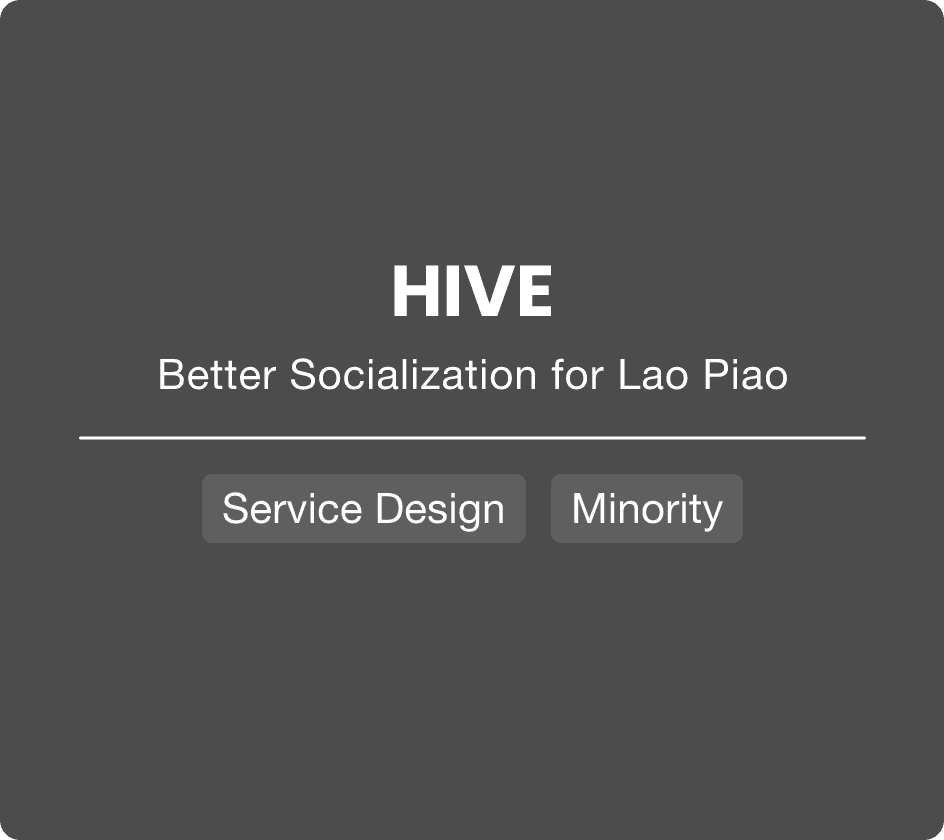
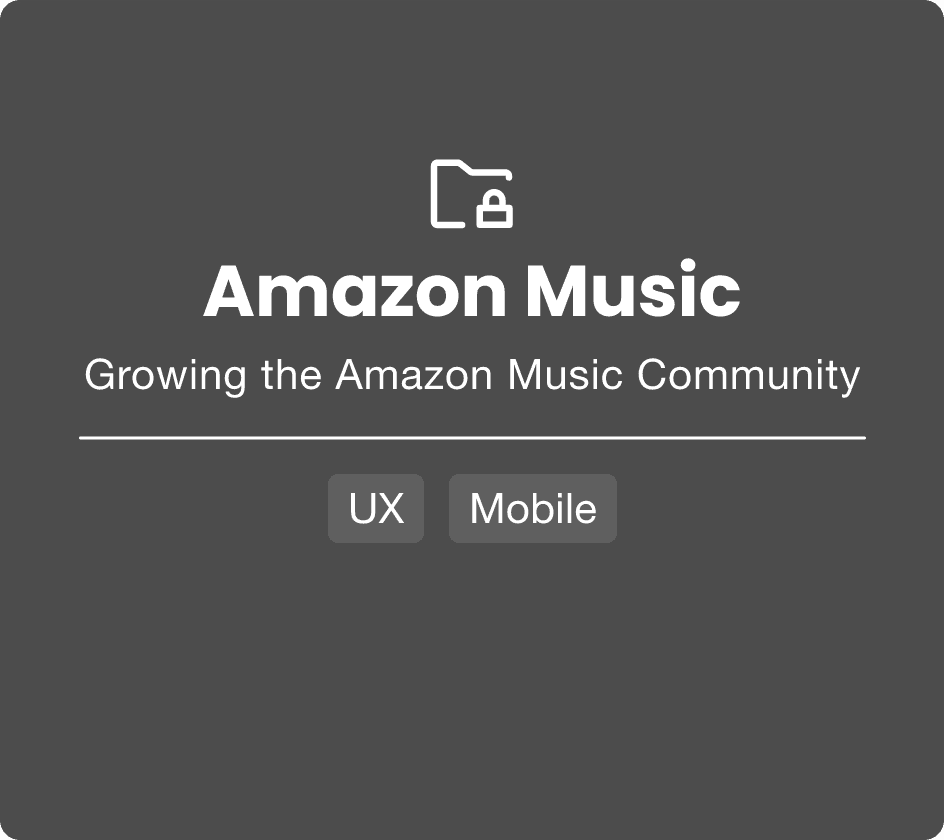
update

Changed region(s): [[0.0922, 0.3095, 0.9216, 0.4643], [0.215, 0.5881, 0.768, 0.65], [0.4301, 0.1857, 0.553, 0.2786]]

diff --git a/index.html b/index.html
@@ -226,37 +226,38 @@
                 style="width:38.4px;height:27.6px;margin:253px 0 0 514px">
         </div>
     </div>
-
     <div class="wow animate__fadeInUp" data-wow-duration="1.2s" data-wow-delay="0s" data-wow-offset="20">
         <div class="work">
             <div class="img-box" style="margin:25px 0 0 199.8px;float: left;">
-                <!-- <a href=""onclick="return false;"> -->
-                <img alt="pic" src="./static/image/cover/ama.png" class="img" style="position: static;">
-                <!-- </a> -->
+                <a href="hive.html">
+                    <img alt="pic" src="./static/image/cover/hive123.png" id="hive_cover" class="img"
+                        style="position: static;">
+                </a>
             </div>
-            <img alt="pic" src="./static/image/cover/ama_logo.png"
-                style="position: absolute;margin: 46px 0 0 -446px;width: 165.2px;">
-            <img alt="pic" src="./static/image/cover/beke_square.png" id="beke_highlight"
+            <!-- <img alt="pic" src="./static/image/cover/iwen_logo.png"
+                style="position: absolute;margin: 65px 0 0 -440px;width: 109.1px;"> -->
+                <img alt="pic" src="./static/image/cover/hive_square.png" id="hive_highlight"
                 style="width:0;height:19.2px;margin:179.8px 0 0 80.8px">
-            <img alt="pic" src="./static/image/cover/beke_1.png"
-                style="width:98.6px;height:27.6px;margin:253px 0 0 80.8px">
-            <img alt="pic" src="./static/image/cover/beke_1.png"
-                style="width:69.2px;height:27.6px;margin:253px 0 0 188px">
-            <img alt="pic" src="./static/image/cover/beke_2.png"
-                style="width:150.8px;height:27.6px;margin:253px 0 0 265px">
-            <!-- <a href=""onclick="return false;"> -->
-            <p class="font1" style="margin:106.6px 0 0 747.2px">Amazon Music</p>
-            <!-- </a> -->
-            <p class="font2" style="margin:206.6px 0 0 751.2px;letter-spacing: 0.5px;">Growing the Amazon Music
-                Community
+            <a href="hive.html">
+                <p class="font1" style="margin:106.6px 0 0 747.2px" id="hive_font">HIVE</p>
+            </a>
+            <p class="font2" style="margin:206.6px 0 0 751.2px;letter-spacing: 0.5px;">Better Socialization for Lao Piao
             </p>
-            <p class="font3" style="margin:301.8px 0 0 752.0px;letter-spacing: 0.4px;">This project is under
-                construction.</p>
-            <p class="font4" style="margin:253.8px 0 0 763.0px;color:#5d5d5d;">UX Design</p>
-            <p class="font4" style="margin:253.8px 0 0 869.6px;color:#5d5d5d;">Mobile</p>
-            <p class="font4" style="margin:253.8px 0 0 945.8px;color:#5d5d5d;">Design Challenge</p>
+            <p class="font3" style="margin:301.8px 0 0 752.0px;letter-spacing: 0.4px;">The project focuses on the
+                elderly drifters in first-tier cities in China, called Lao Piao, helping them to improve their personal
+                awareness and focus on their needs.</p>
+            <p class="font4" style="margin:253.8px 0 0 762.5px;color:#5d5d5d;">UX Design</p>
+            <p class="font4" style="margin:253.8px 0 0 871px;color:#5d5d5d;">Service Design</p>
+            <p class="font4" style="margin:253.8px 0 0 1008.2px;color:#5d5d5d;">Equity for Minority</p>
+            <img alt="pic" src="./static/image/cover/iwen_1.png"
+                style="width:98.0px;height:27.6px;margin:253px 0 0 80.8px">
+            <img alt="pic" src="./static/image/cover/iwen_1.png"
+                style="width:129.6px;height:27.6px;margin:253px 0 0 189px">
+            <img alt="pic" src="./static/image/cover/iwen_2.png"
+                style="width:152.4px;height:27.6px;margin:253px 0 0 328.8px">
         </div>
     </div>
+
     <div id="page_the">
         <div class="title" style="margin:70px 0 0 198.2px;letter-spacing: 0.9px;">There is more about <a
                 href="/etc.html" onclick="ppp01()">
@@ -279,13 +280,13 @@
             style="width:48.0px;height:4px;margin:109.0px 0 0 1048.8px;opacity: 0;position: absolute;">
     </div>
     <div id="container1">
-        <a href="/etc.html" onclick="ppp1()"><img src="./static/image/home/1.png" alt="Image 1" id="image1"
+        <a href="/etc.html" onclick="ppp1()"><img src="./static/image/home/6.png" alt="Image 1" id="image1"
                 class="image1" ondragstart='return false;'></a>
-        <a href="/etc.html" onclick="ppp2()"><img src="./static/image/home/2.png" alt="Image 2" id="image2"
+        <a href="/etc.html" onclick="ppp2()"><img src="./static/image/home/1.png" alt="Image 2" id="image2"
                 class="image1" ondragstart='return false;'></a>
-        <a href="/etc.html" onclick="ppp3()"><img src="./static/image/home/3.png" alt="Image 3" id="image3"
+        <a href="/etc.html" onclick="ppp3()"><img src="./static/image/home/2.png" alt="Image 3" id="image3"
                 class="image1" ondragstart='return false;'></a>
-        <a href="/etc.html" onclick="ppp4()"><img src="./static/image/home/6.png" alt="Image 4" id="image4"
+        <a href="/etc.html" onclick="ppp4()"><img src="./static/image/home/3.png" alt="Image 4" id="image4"
                 class="image1" ondragstart='return false;'></a>
         <a href="/etc.html" onclick="ppp5()"><img src="./static/image/home/7.png" alt="Image 1" id="image5"
                 class="image1" ondragstart='return false;'></a>
@@ -307,13 +308,13 @@
                 class="image1" ondragstart='return false;'></a> -->
 
 
-        <a href="/etc.html" onclick="ppp1()"><img src="./static/image/home/a1.png" alt="Image 1" id="image1_h"
+        <a href="/etc.html" onclick="ppp1()"><img src="./static/image/home/a6.png" alt="Image 1" id="image1_h"
                 class="image1_h" ondragstart='return false;' style="opacity:0"></a>
-        <a href="/etc.html" onclick="ppp2()"><img src="./static/image/home/a2.png" alt="Image 2" id="image2_h"
+        <a href="/etc.html" onclick="ppp2()"><img src="./static/image/home/a1.png" alt="Image 2" id="image2_h"
                 class="image1_h" ondragstart='return false;' style="opacity:0"></a>
-        <a href="/etc.html" onclick="ppp3()"><img src="./static/image/home/a3.png" alt="Image 3" id="image3_h"
+        <a href="/etc.html" onclick="ppp3()"><img src="./static/image/home/a2.png" alt="Image 3" id="image3_h"
                 class="image1_h" ondragstart='return false;' style="opacity:0"></a>
-        <a href="/etc.html" onclick="ppp4()"><img src="./static/image/home/a6.png" alt="Image 4" id="image4_h"
+        <a href="/etc.html" onclick="ppp4()"><img src="./static/image/home/a3.png" alt="Image 4" id="image4_h"
                 class="image1_h" ondragstart='return false;' style="opacity:0"></a>
         <a href="/etc.html" onclick="ppp5()"><img src="./static/image/home/a7.png" alt="Image 1" id="image5_h"
                 class="image1_h" ondragstart='return false;' style="opacity:0"></a>

diff --git a/etc.html b/etc.html
@@ -174,7 +174,7 @@
             </div>
         </div>
         <div class="wow animate__fadeInUp" data-wow-duration="1.2s" data-wow-delay="0s" data-wow-offset="0">
-            <div class="otherworks">
+            <div class="otherworks" id="amaww">
                 <div id="carouselExampleIndicators" class="carousel slide" data-bs-ride="carousel"
                     style="width:1154.0px;height:620.0px;margin:-4px 0 0 172.4px;position: absolute;">
                     <div class="carousel-inner">
@@ -198,10 +198,10 @@
                     Amazon Music's design challenge. By broadening the social boundaries of music, it brings listeners a
                     different kind of music experience to meet friends with similar musical tastes.</div>
                 <!-- <a href="./iwen.html" id="next_iwen"> -->
-                    <img alt="pic" src="./static/image/cover/ama1.png"
-                        style="width:21.4px;margin:465.6px 0 0 1017.6px;position: absolute;opacity: 1;">
-                    <img alt="pic" src="./static/image/cover/ama2.png"
-                        style="width:153.6px;margin:465.6px 0 0 1048.4px;position: absolute;opacity: 1;">
+                <img alt="pic" src="./static/image/cover/ama1.png"
+                    style="width:21.4px;margin:465.6px 0 0 1017.6px;position: absolute;opacity: 1;">
+                <img alt="pic" src="./static/image/cover/ama2.png"
+                    style="width:153.6px;margin:465.6px 0 0 1048.4px;position: absolute;opacity: 1;">
                 <!-- </a> -->
             </div>
         </div>
@@ -220,12 +220,12 @@
                 <img alt="pic" src="./static/image/cover/kkk.png"
                     style="width:317.6px;height:456.0px;margin:73.8px 0 0 976.4px;position: absolute;opacity: 0.9;">
                 <img alt="pic" src="./static/image/cover/rt.png"
-                    style="width:32.4px;height:27.6px;margin:162.4px 0 0 1016.4px;position: absolute">
+                    style="width:38.4px;height:27.6px;margin:162.4px 0 0 1016.4px;position: absolute">
                 <img alt="pic" src="./static/image/cover/rt.png"
-                    style="width:79.2px;height:27.6px;margin:162.4px 0 0 1058.8px;position: absolute">
+                    style="width:78.2px;height:27.6px;margin:162.4px 0 0 1064.8px;position: absolute">
                 <p class="font1" style="margin:112px 0 0 1016.4px">BEKE</p>
-                <p class="font3" style="margin:166px 0 0 1025.3px;color: #5D5D5D;font-size: 16.8px;">UI</p>
-                <p class="font3" style="margin:166px 0 0 1067.8px;color: #5D5D5D;font-size: 16.8px;">Desktop</p>
+                <p class="font3" style="margin:166px 0 0 1025.3px;color: #5D5D5D;font-size: 16.8px;">UX</p>
+                <p class="font3" style="margin:166px 0 0 1072.8px;color: #5D5D5D;font-size: 16.8px;">Desktop</p>
                 <div class="font3" style="margin:222px 0 0 1016.4px;letter-spacing: 0.3px;">It's my design intern
                     project in the Agent Cooperation Network development program @BEKE. The end-to-end design of BEKE's
                     realtor info processing platform increased transactions by 12% within 3 months.</div>
@@ -388,7 +388,7 @@
             </div>
         </div>
         <div class="wow animate__fadeInUp" data-wow-duration="1.2s" data-wow-delay="0s" data-wow-offset="0">
-            <div class="otherworks" id="hiveww">
+            <div class="otherworks">
                 <div id="carouselExampleIndicators" class="carousel slide" data-bs-ride="carousel"
                     style="width:1154.0px;height:620.0px;margin:-4px 0 0 172.4px;position: absolute;">
                     <div class="carousel-inner">
@@ -1526,21 +1526,21 @@
         if (pre === 1) {
             uiux();
             $("html,body").animate({
-                scrollTop: $("#bekeww").eq(0).offset().top - 4
+                scrollTop: $("#amaww").eq(0).offset().top - 4
             }, 1000);
             localStorage.setItem('pre', 0);
         }
         if (pre === 2) {
             uiux();
             $("html,body").animate({
-                scrollTop: $("#airbnbww").eq(0).offset().top - 4
+                scrollTop: $("#bekeww").eq(0).offset().top - 4
             }, 1500);
             localStorage.setItem('pre', 0);
         }
         if (pre === 3) {
             uiux();
             $("html,body").animate({
-                scrollTop: $("#wbfww").eq(0).offset().top - 4
+                scrollTop: $("#airbnbww").eq(0).offset().top - 4
             }, 2000);
             localStorage.setItem('pre', 0);
         }
@@ -1566,9 +1566,9 @@
         //     localStorage.setItem('pre', 0);
         // }
         if (pre === 4) {
-            Service_Design();
+            uiux();
             $("html,body").animate({
-                scrollTop: $("#hiveww").eq(0).offset().top - 4
+                scrollTop: $("#wbfww").eq(0).offset().top - 4
             }, 1000);
             localStorage.setItem('pre', 0);
         }

diff --git a/static/js/portfolio.js b/static/js/portfolio.js
@@ -49,53 +49,53 @@ $(function () {
     });
 });
 
-let beke_cover = document.getElementById("beke_cover")
+let hive_cover = document.getElementById("hive_cover")
 $(function () {
-    $(beke_cover).on({
+    $(hive_cover).on({
         mouseover: function () {
             setTimeout(() => {
-                if ($(beke_cover).is(':hover')) {
-                    let l1 = document.getElementById("beke_highlight")
+                if ($(hive_cover).is(':hover')) {
+                    let l1 = document.getElementById("hive_highlight")
                     $(l1).animate({
-                        width: "186.0px"
+                        width: "174.0px"
                     }, 500);
-                    beke_cover.style.transform = "scale(1.13)";
+                    hive_cover.style.transform = "scale(1.13)";
                 }
             }, 500);
         },
     });
-    $(beke_cover).on({
+    $(hive_cover).on({
         mouseout: function () {
-            let l1 = document.getElementById("beke_highlight")
+            let l1 = document.getElementById("hive_highlight")
             $(l1).animate({
                 width: "0px"
             }, 500);
-            beke_cover.style.transform = "scale(1)";
+            hive_cover.style.transform = "scale(1)";
         },
     });
 });
-let beke_font = document.getElementById("beke_font")
+let hive_font = document.getElementById("hive_font")
 $(function () {
-    $(beke_font).on({
+    $(hive_font).on({
         mouseover: function () {
             setTimeout(() => {
-                if ($(beke_font).is(':hover')) {
-                    let l1 = document.getElementById("beke_highlight")
+                if ($(hive_font).is(':hover')) {
+                    let l1 = document.getElementById("hive_highlight")
                     $(l1).animate({
-                        width: "186.0px"
+                        width: "174.0px"
                     }, 500);
-                    beke_cover.style.transform = "scale(1.13)";
+                    hive_cover.style.transform = "scale(1.13)";
                 }
             }, 500);
         },
     });
-    $(beke_font).on({
+    $(hive_font).on({
         mouseout: function () {
-            let l1 = document.getElementById("beke_highlight")
+            let l1 = document.getElementById("hive_highlight")
             $(l1).animate({
                 width: "0px"
             }, 500);
-            beke_cover.style.transform = "scale(1)";
+            hive_cover.style.transform = "scale(1)";
         },
     });
 });

diff --git a/beke.html b/beke.html
@@ -67,7 +67,7 @@
             <p class="font1" style="margin:246.0px 0 0 195.2px;width:256.4px;">BEKE</p>
             <p class="font2" style="margin:347.6px 0 0 198.4px">Rental Agent Cooperation Platform</p>
             <p class="font3" style="margin:470.0px 0 0 200px">Design Internship Project</p>
-            <p class="font3" style="margin:493.2px 0 0 200px">User Interface Designer</p>
+            <p class="font3" style="margin:493.2px 0 0 200px">User Experience Designer</p>
             <p class="font3" style="margin:516.4px 0 0 200px">2020.07 — 2021.03</p>
             <img alt="pic" src="./static/image/beke/software.png" style="height:39.2px;margin:557.6px 0 0 196.4px">
         </div>
@@ -86,7 +86,7 @@
             <p class="font1z" style="margin:300.8px 0 0 200.0px;">My Role</p>
             <p class="font1z" style="margin:358.8px 0 0 200.0px;">Discipline</p>
             <p class="font2z" style="margin:165.2px 0 0 200.0px;">Jul 2020 — Mar 2021</p>
-            <p class="font2z" style="margin:223.2px 0 0 200.0px;">Zhenglin Zhang (UI Designer)</p>
+            <p class="font2z" style="margin:223.2px 0 0 200.0px;">Zhenglin Zhang (UX Designer)</p>
             <p class="font2z" style="margin:243.2px 0 0 200.0px;">Xiwen (Product Manager)</p>
             <p class="font2z" style="margin:263.2px 0 0 200.0px;">Suhang (Front-End Engineer)</p>
             <p class="font2z" style="margin:322px 0 0 200.0px;">UI Design Intern</p>

diff --git a/iwen.html b/iwen.html
@@ -70,7 +70,7 @@
             <p class="font1" style="margin:246.0px 0 0 195.6px">Iwen</p>
             <p class="font2" style="margin:347.6px 0 0 198.4px">Redesign for the English Reading App</p>
             <p class="font3" style="margin:470.0px 0 0 200px">Startup Program</p>
-            <p class="font3" style="margin:493.2px 0 0 200px">User Experience & User Interface Designer</p>
+            <p class="font3" style="margin:493.2px 0 0 200px">User Experience Designer</p>
             <p class="font3" style="margin:516.4px 0 0 200px">2021.04 — Ongoing</p>
             <img alt="pic" src="./static/image/iwen/page0_software.png"
                 style="width:165.2px;height:39.2px;margin:557.6px 0 0 196.4px">
